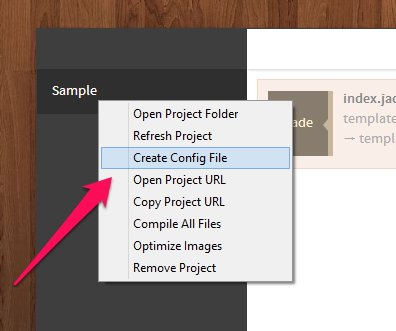
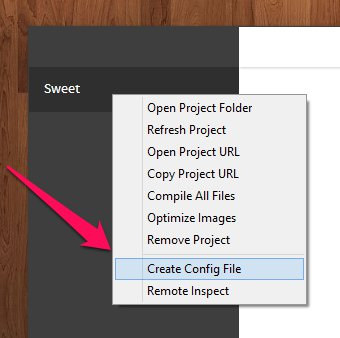
updated docs

diff --git a/docs/contents/live-refresh.md b/docs/contents/live-refresh.md
@@ -13,15 +13,12 @@ Prepros uses websockets for communication so your browser must it for the live r
 
 You have to click on the `globe` icon on the project toolbar to open live url with built in http server. You can also hit `CTRL+L` to open the live url of the selected project.
 
-![Click to open Live url](img/live-refresh/open-live-url.jpg)
-
-
 ## Using custom server
 
 If you are using custom setup like apache or any other server you have to change the live refresh url from the [projects options panel](projects.html).
 
 Open projects options panel by clicking the gears icon in the project toolbar and go to general tab. Check the use custom server checkbox and enter your custom url you want to refresh. Note: Don't forget the `http` or `https` protocol before the url.
 
-![Custom Server](img/live-refresh/custom-server.jpg)
+![Custom Server](img/live-refresh/live-url.gif)
 
 <div class="alert alert-info">Please enable `allow access to file url` option for Prepros chrome extension from chrome extensions page.</div>

diff --git a/docs/contents/multi-device-testing.md b/docs/contents/multi-device-testing.md
@@ -9,4 +9,16 @@ Please click the `phone` icon on the top right corner of the Prepros window to g
 
 Prepros uses websockets for communication so your device must support it for live refresh to work.
 
-![LESS](img/multi-device-live-refresh/multi.jpg)
+![](img/multi-device-testing/live-url.gif)
+
+### Inspecting Remote Devices
+
+After you open Prepros url on remote device such as your phone or another device. You can inspect that device with Prepros. To inspect remote devices right click on project and then click `remote inspect` option.
+
+![](img/multi-device-testing/remote-inspect.jpg)
+
+This will open up your browser and will show the devices connected. Select the target device device and go any tab like elements, resourcees, networks etc.
+
+![](img/multi-device-testing/remote-inspect.gif)
+
+The above gif shows inspecting another tab of chrome but it can be done with remote devices such as phones and tablets.

diff --git a/docs/contents/image-optimization.md b/docs/contents/image-optimization.md
@@ -9,9 +9,7 @@ Right click the project and click the image optimization option on the context m
 
 Click on the optimize button then Prepros will optimize the image.
 
+![Image Optimization](img/image-optimization/optim.gif)
+
 <br><br>
 <iframe width="640" height="480" src="//www.youtube.com/embed/pSbDjIlVv5Q" frameborder="0" allowfullscreen></iframe><br><br>
-
-![Image Optimization](img/image-optimization/1.jpg)<br>
-<br>
-![Image Optimization](img/image-optimization/2.jpg)
